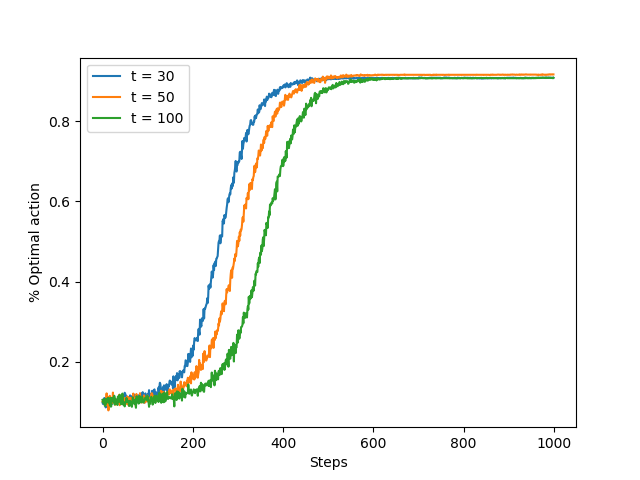
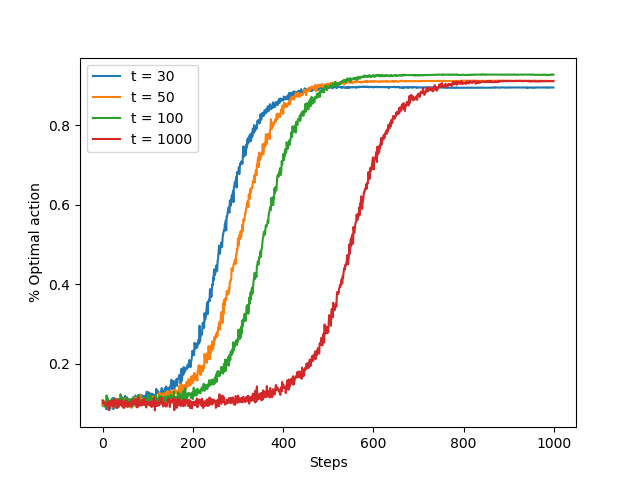
act 2

diff --git a/act2-bis.py b/act2-bis.py
@@ -57,10 +57,10 @@ def CNN(params):
                           np.array(bunch_dataset["image_tensor"])[test_index]
         y_train, y_test = bunch_dataset["target"][train_index], bunch_dataset["target"][test_index]
 
-        model = getModel(values)
+        model = getModel([64, 32] + values)
 
         # Entrena el modelo
-        history = model.fit(np.array(X_train), y_train, validation_data=(np.array(X_test), y_test), epochs=5)
+        history = model.fit(np.array(X_train), y_train, validation_data=(np.array(X_test), y_test), epochs=200)
 
         if np.max(history.history['val_acc']) < 0.7:
             return np.max(history.history['val_acc'])
@@ -90,12 +90,14 @@ with tf.Session() as sess:
         print('Loading image ', len(bunch_dataset["image_tensor"]))
 
 # define hyperparametros a optimizar
-bds = [{'name': 'conv1', 'type': 'discrete', 'domain': (30, 60)},
-       {'name': 'conv2', 'type': 'discrete', 'domain': (30, 60)},
-       {'name': 'nn1', 'type': 'discrete', 'domain': (100, 1000)},
-       {'name': 'nn2', 'type': 'discrete', 'domain': (100, 1000)},
-       {'name': 'nn3', 'type': 'discrete', 'domain': (100, 1000)},
-       {'name': 'nn4', 'type': 'discrete', 'domain': (100, 1000)}]
+bds = [
+    # {'name': 'conv1', 'type': 'discrete', 'domain': (30, 60)},
+    # {'name': 'conv2', 'type': 'discrete', 'domain': (30, 60)},
+    {'name': 'nn1', 'type': 'discrete', 'domain': (100, 1000)},
+    {'name': 'nn2', 'type': 'discrete', 'domain': (100, 1000)},
+    {'name': 'nn3', 'type': 'discrete', 'domain': (100, 1000)},
+    {'name': 'nn4', 'type': 'discrete', 'domain': (100, 1000)}
+]
 
 # define el optimizador
 optimizer = BayesianOptimization(f=CNN,

diff --git a/act1.py b/act1.py
@@ -121,7 +121,7 @@ def simulate(runs, time, bandits):
     return mean_best_action_counts, mean_rewards
 
 
-def definicion_de_bandidos():
+def bandit_definition():
     plt.violinplot(dataset=np.random.randn(200, 10) + np.random.randn(10))
     plt.xlabel("Action")
     plt.ylabel("Reward distribution")
@@ -129,7 +129,7 @@ def definicion_de_bandidos():
     plt.show()
 
 
-def actividad_1_1(runs=2000, time=1000, initial=0.0):
+def activity_1_1(runs=2000, time=1000, initial=0.0):
     epsilons = [0.1, 0.15, 0.2]
     bandits = [Bandit(epsilon=eps, sample_averages=True, modify_epsilon=runs, initial=initial) for eps in epsilons]
     best_action_counts, rewards = simulate(runs, time, bandits)
@@ -154,7 +154,7 @@ def actividad_1_1(runs=2000, time=1000, initial=0.0):
     plt.show()
 
 
-def actividad_1_2(runs=2000, time=1000, initial=0.0):
+def activity_1_2(runs=2000, time=1000, initial=0.0):
     bandits = []
     bandits.append(Bandit(gradient=True, gradient_baseline=True, temperature=30.0, initial=initial))
     bandits.append(Bandit(gradient=True, gradient_baseline=True, temperature=50.0, initial=initial))
@@ -174,14 +174,14 @@ def actividad_1_2(runs=2000, time=1000, initial=0.0):
     plt.show()
 
 
-def actividad_1_3():
-    actividad_1_1(initial=0.3)
-    actividad_1_1(initial=0.5)
-    actividad_1_2(initial=0.3)
-    actividad_1_2(initial=0.5)
+def activity_1_3():
+    # activity_1_1(initial=0.3)
+    # activity_1_1(initial=0.5)
+    # activity_1_2(initial=0.3)
+    activity_1_2(initial=0.5)
 
 
-# definicion_de_bandidos()
-# actividad_1_1()
-# actividad_1_2()
-actividad_1_3()
+# bandit_definition()
+# activity_1_1()
+# activity_1_2()
+activity_1_3()

diff --git a/act2.py b/act2.py
@@ -40,7 +40,9 @@ def getModel(conv1, conv2, nn1, nn2, nn3, nn4):
 
 
 # Define la funcion a optimizar, en este caso la red ConvNet
-def CNN(conv1, conv2, nn1, nn2, nn3, nn4):
+# def CNN(conv1, conv2, nn1, nn2, nn3, nn4):
+def CNN(nn1, nn2, nn3, nn4):
+    conv1, conv2 = 64, 32
     conv1, conv2, nn1, nn2, nn3, nn4 = int(conv1), int(conv2), int(nn1), int(nn2), int(nn3), int(nn4)
 
     # Implementa la validacion cruzada mediante KFold
@@ -92,8 +94,8 @@ if __name__ == '__main__':
     KAPPA = 5
 
     params = {
-        'conv1': (10, 150),
-        'conv2': (10, 150),
+        # 'conv1': (10, 150),
+        # 'conv2': (10, 150),
         'nn1': (100, 1500),
         'nn2': (100, 1500),
         'nn3': (100, 1000),
